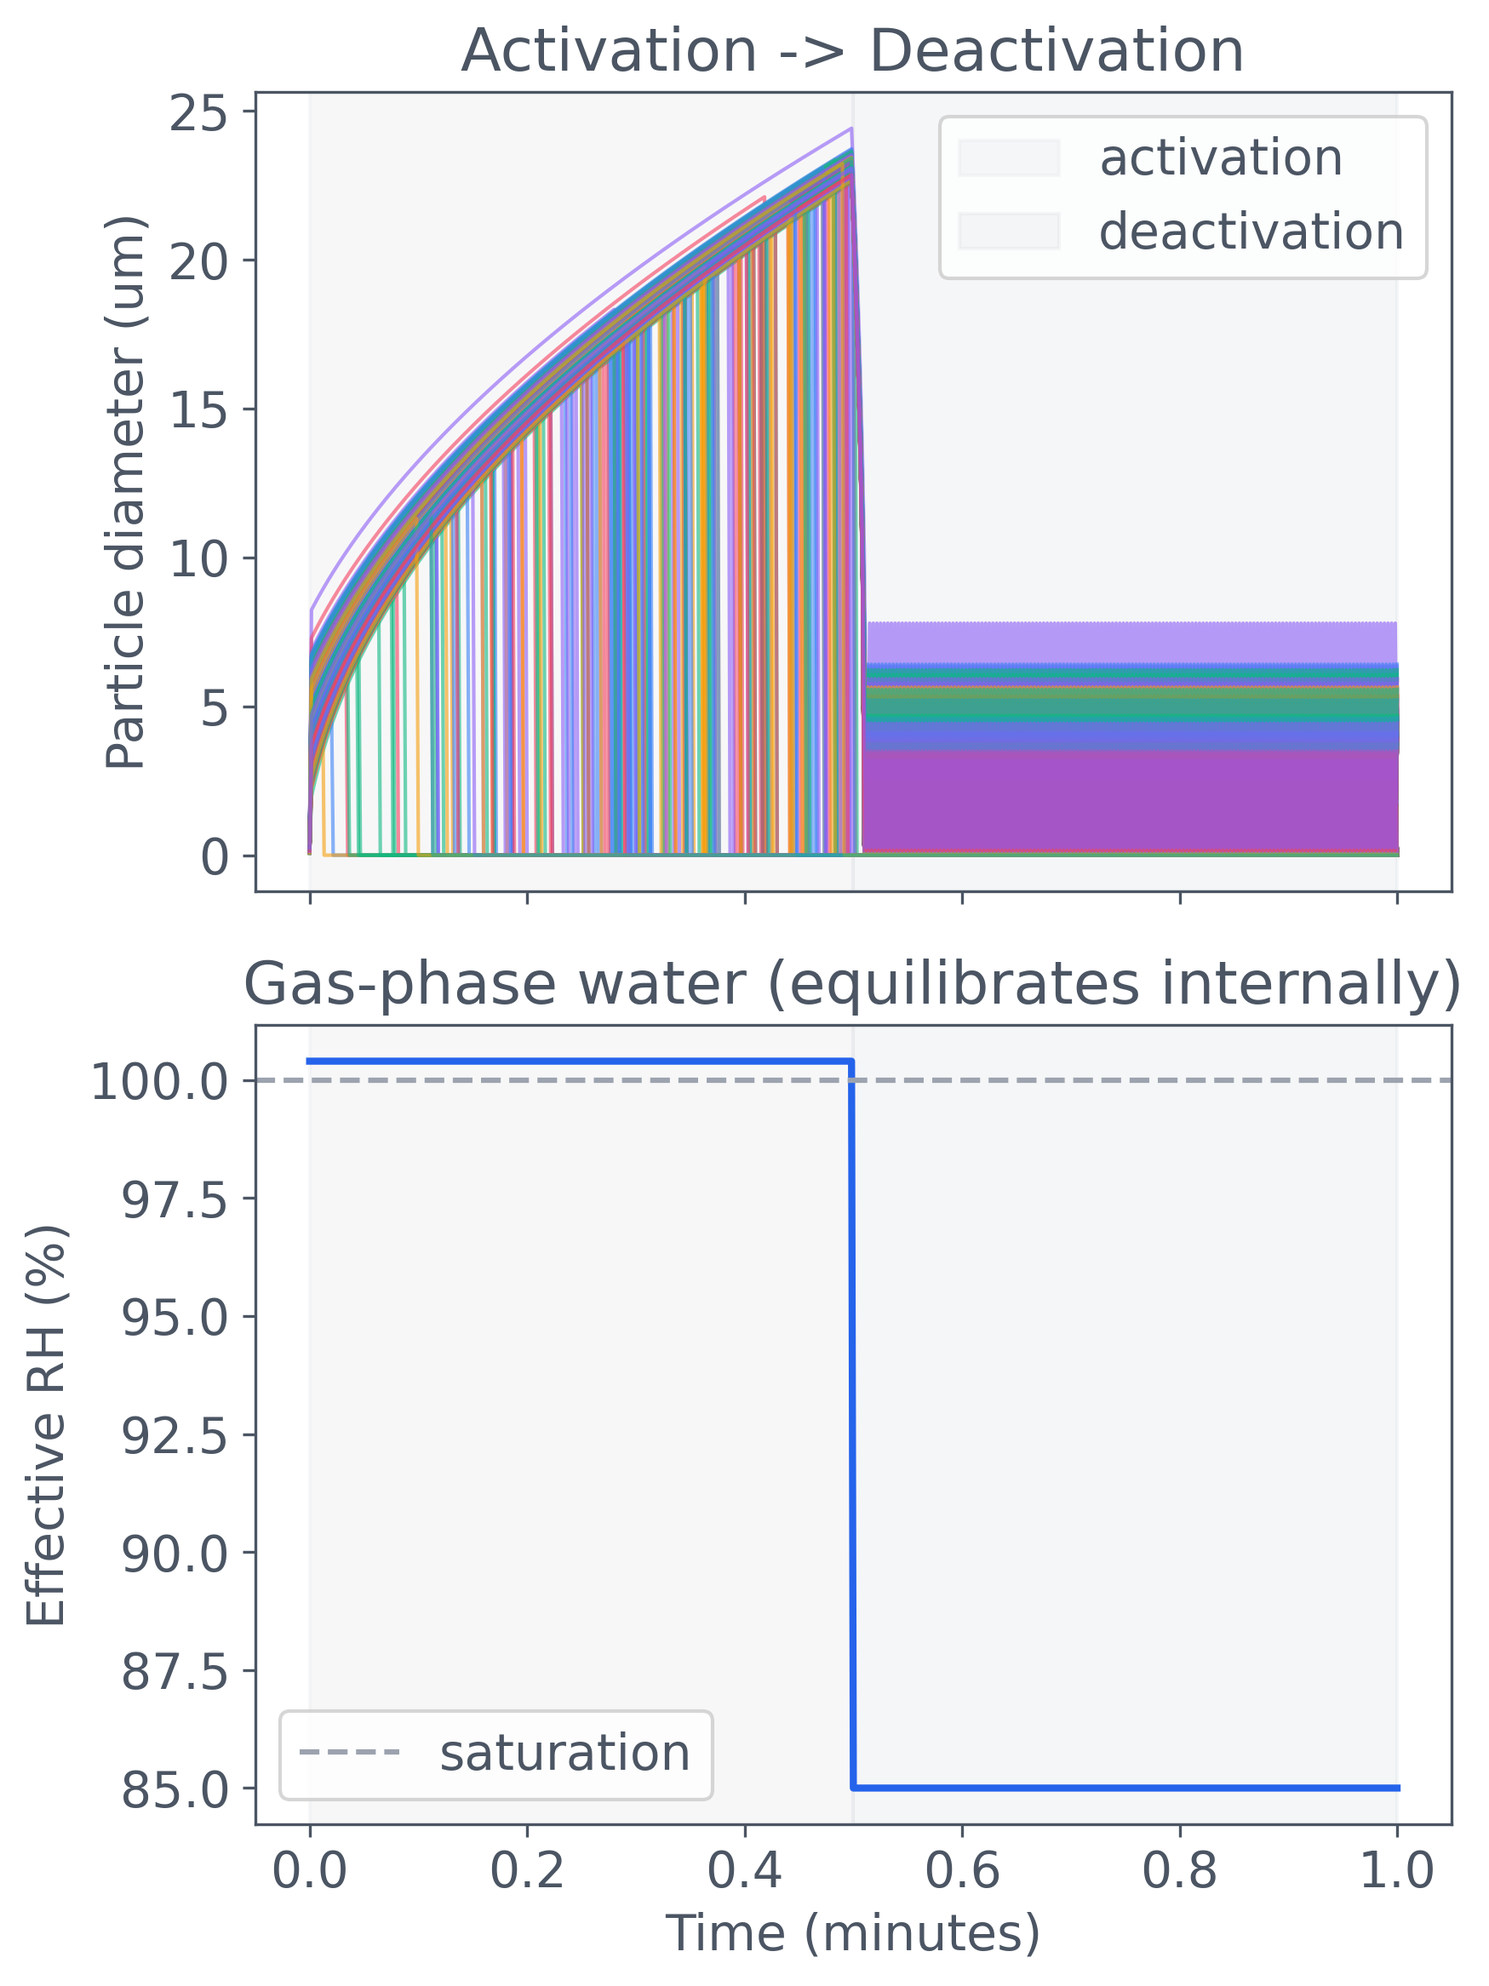
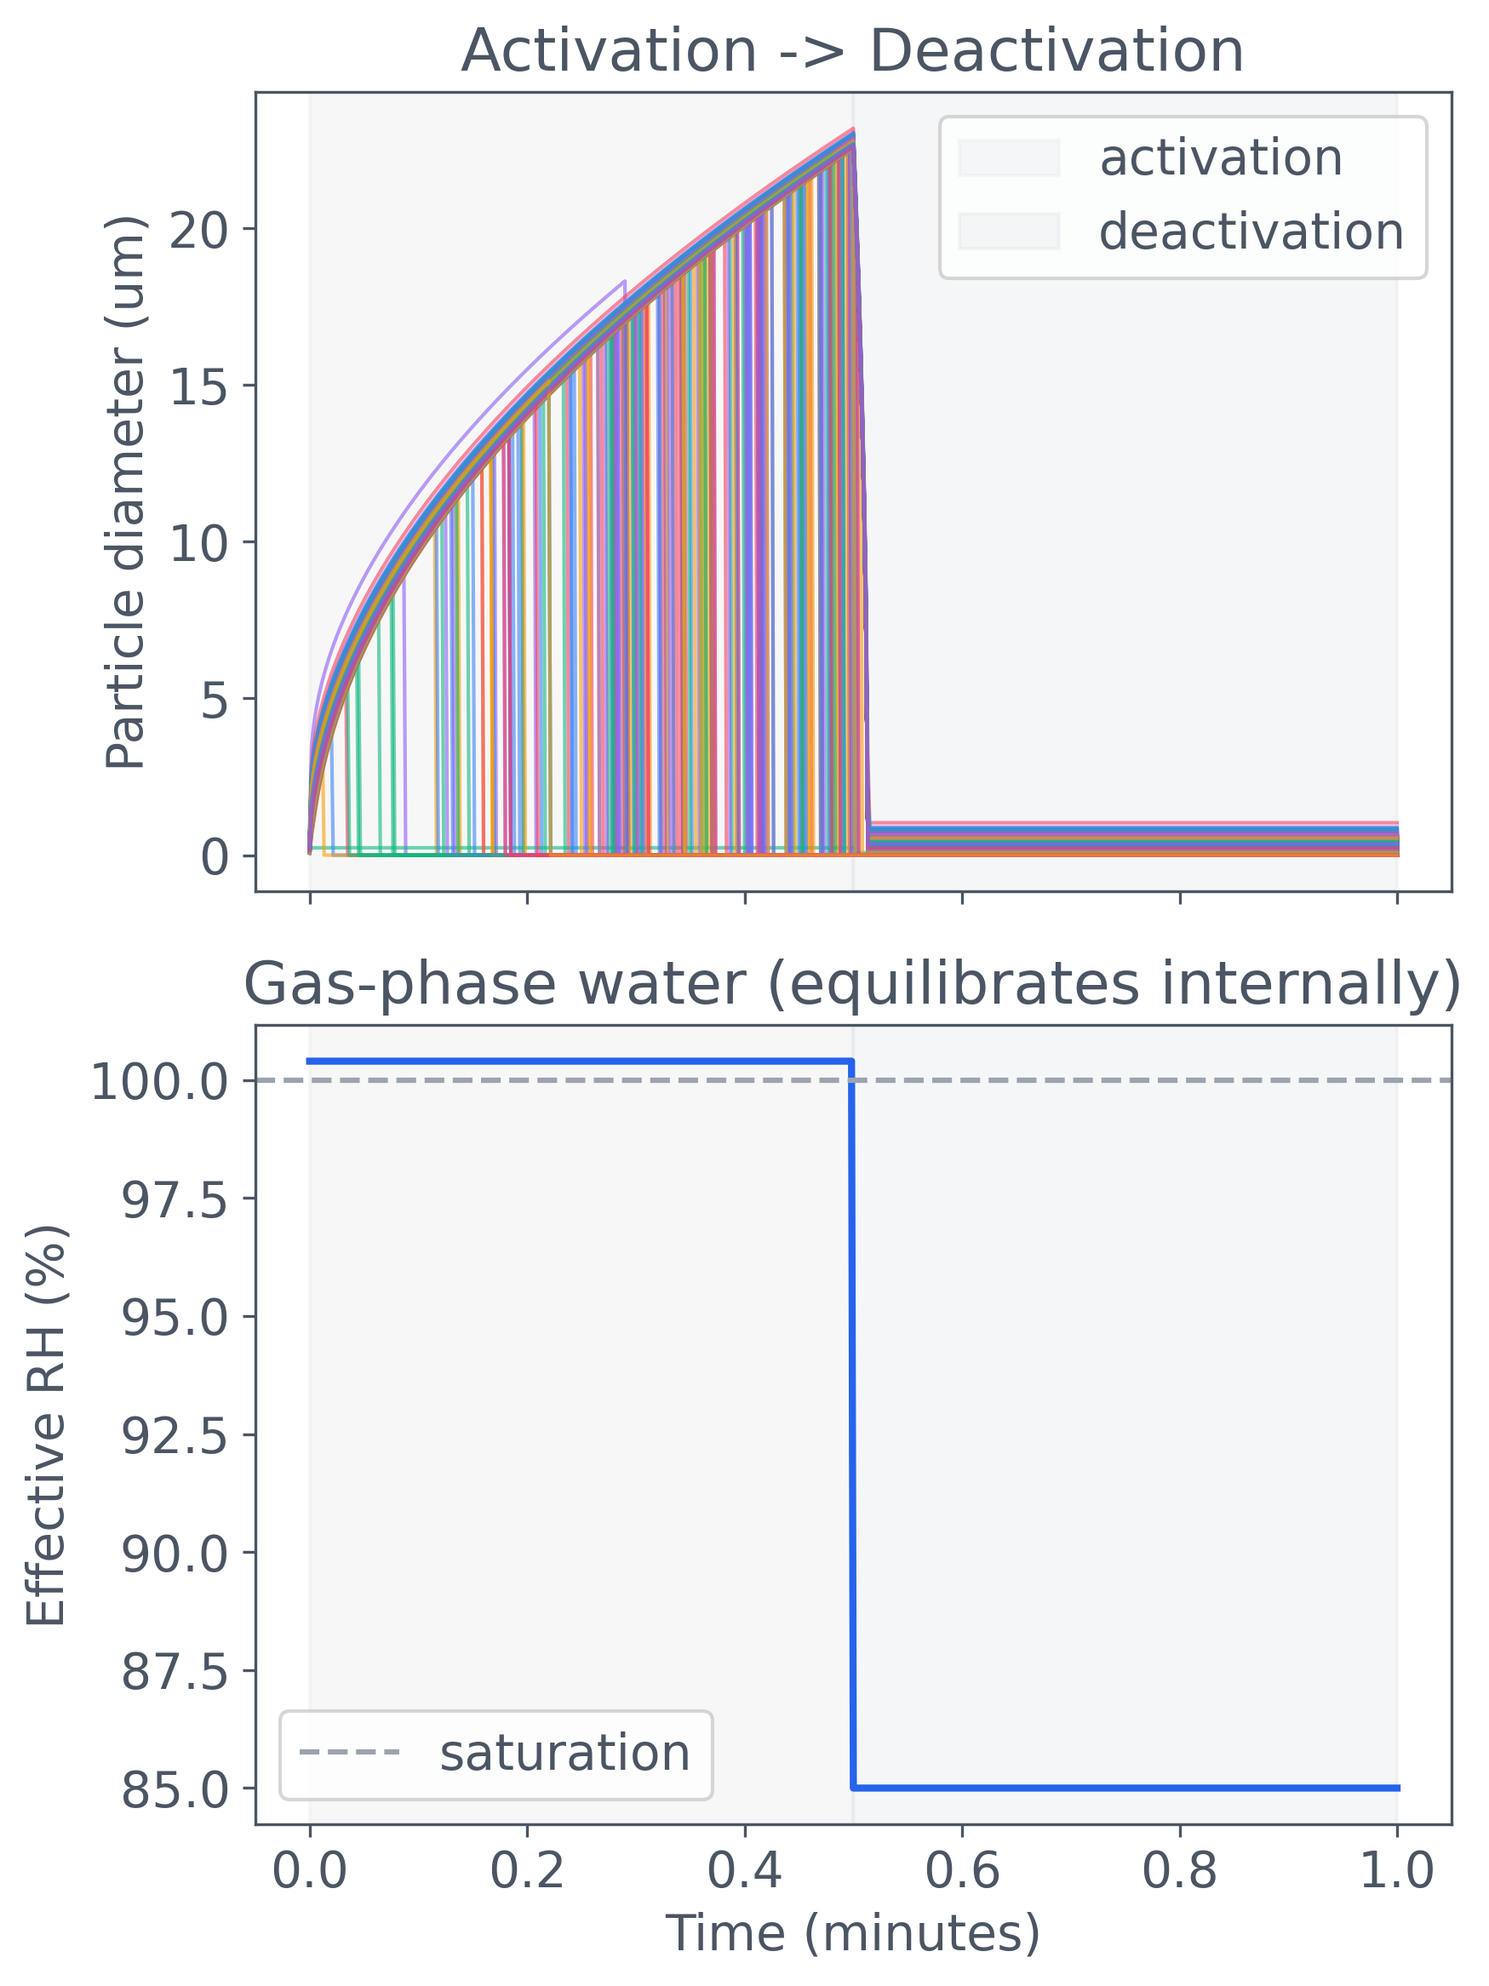
docs(examples): retain full corrected chamber result

diff --git a/website/results/examples-simulations-cloud-chamber-single-cycle/source.py b/website/results/examples-simulations-cloud-chamber-single-cycle/source.py
@@ -13,25 +13,33 @@
 # ---
 
 # %% [markdown]
-# # Cloud Chamber Activation-Deactivation Cycle (Single Run)
+# # Follow droplets through one wet–dry chamber cycle
 #
-# Welcome! This beginner-friendly notebook shows how to simulate one cloud activation-deactivation cycle in a rectangular cloud chamber using **Particula**. You will:
+# What changes when hygroscopic seeds encounter a supersaturated vapor reservoir
+# and then a drier one? This example couples condensation, evaporation, and
+# rectangular-chamber wall removal, following individual particle sizes and the
+# remaining gas-phase water. It provides a scaffold for reasoning about water
+# exchange and survival in a chamber.
 #
-# - Configure chamber geometry and wall-loss settings.
-# - Define hygroscopic seed composition with kappa-theory.
-# - Build a particle-resolved aerosol with speciated mass.
-# - Run one supersaturated activation (100.4% RH) and one deactivation (85% RH).
-# - Visualize droplet growth beyond 5 um and shrinkage during drying.
-# - Check each closed condensation inventory at rtol=1e-12 and atol=1e-30, separately from wall removal and humidity resets.
+# The two humidity settings initialize phases; they are not held fixed by a
+# continuous controller. Each condensation step conserves its mapped species,
+# whereas wall removal and the imposed humidity reset open that inventory.
+# Adaptive ROS3 resolves condensation inside each 0.1 s wall-loss/output
+# interval. Its local error control is distinct from convergence of the outer
+# stochastic wall-loss schedule and from a quantitative activation threshold.
 #
-# This fixed-step illustration is not a timestep-convergence or quantitative
-# activation study. Material conservation alone does not establish trajectory
-# accuracy; the retained dry-phase trajectories include step-scale oscillations.
-#
-# > Learning goals: understand Kohler/kappa activation basics, see how wall loss and condensation interact, and reuse this scaffold for multi-cycle studies.
+# Start with [condensation](../processes/condensation/condensation_1_bin.py) and
+# [rectangular wall loss](../processes/wall-loss/rectangular_wall_loss_strategy.py)
+# if either process is unfamiliar. This example adds their interaction, not a
+# validation against chamber measurements.
 
 # %% [markdown]
-# ## Imports, style, and reproducibility
+# ## Make the sampling choices reproducible
+#
+# Use NumPy for the sampled seed population and an explicit generator for wall
+# removal. Fixed seeds make this particular realization repeatable under the same
+# implementation. Estimating stochastic uncertainty would require an ensemble of
+# independent realizations, which is not run here.
 
 # %%
 import copy
@@ -42,6 +50,7 @@ import particula as par
 from particula.dynamics.condensation.species_mapping import (
     CondensationSpeciesMap,
 )
+from particula.execution.splitting import condensation_flow
 
 # Optional: uncomment if many steps and you want a progress bar
 # from tqdm import tqdm
@@ -68,8 +77,13 @@ np.random.seed(100)  # reproducibility for sampling and wall-loss RNG
 
 
 # %% [markdown]
-# ## 1. Chamber geometry and wall-loss setup
-# We model a rectangular cloud chamber. Wall loss is stochastic inside the strategy, so small run-to-run variability is expected even with a fixed seed (reproducibility mainly controls sampling order).
+# ## Define the geometry used by wall loss
+#
+# The wall-loss model uses a 2 m × 1 m × 1 m chamber and an eddy-loss parameter
+# of 0.001 s⁻¹. Particle removal is stochastic in the resolved representation.
+# Keep this geometry distinct from the represented aerosol sample volume set
+# below: one controls the loss coefficients, the other converts particle counts
+# and gas concentration into an extensive inventory.
 
 # %%
 # Geometry (meters)
@@ -89,8 +103,14 @@ wall_loss = par.dynamics.WallLoss(wall_loss_strategy=wall_loss_strategy)
 
 
 # %% [markdown]
-# ## 2. Seed species and kappa-activity parameters
-# We track three species in each particle: ammonium sulfate, sucrose, and water (water index = 2). kappa-theory approximates water activity from composition; higher kappa means more hygroscopic. Kohler theory couples curvature and solute effects; kappa-theory is a convenient approximation.
+# ## Put solute effects and water in aligned species lanes
+#
+# Each particle contains ammonium sulfate, sucrose, and water, in that order.
+# κ=[0.61, 0.10, 0] supplies an illustrative hygroscopicity model; densities
+# are kg/m³ and molar masses kg/mol. Water is lane 2, and its own κ is unused.
+# Solute activity and the later Kelvin surface correction both enter the
+# condensation calculation. These fixed values do not describe every
+# concentration or temperature dependence of the named materials.
 
 # %%
 kappa = np.array([0.61, 0.10, 0.0])
@@ -106,8 +126,18 @@ activity_params = (
 )
 
 # %% [markdown]
-# ## 3. Particle-resolved distribution, atmosphere, and initial aerosol
-# We create a particle-resolved speciated-mass representation using a lognormal sample distribution. Particles are sampled from a lognormal distribution with realistic CCN seed sizes. Water starts at zero; species ordering matches the kappa inputs.
+# ## Build a sampled dry population and its vapor reservoir
+#
+# Sample 1000 dry radii from a lognormal distribution with 100 nm mode radius
+# and geometric standard deviation 1.5. The dry material is 60% ammonium sulfate
+# and 40% sucrose **by volume**, converted to species masses using their densities.
+# Water starts at zero. The gas adds an unmapped air lane as well as the three
+# mapped particle species.
+#
+# The represented sample volume is 0.25 m³, distinct from the 2 m³ chamber
+# geometry above. Constant water-like surface tension is assumed. The inventory
+# helper combines weighted particle mass with gas concentration times sample
+# volume, in kg; this is the quantity compared around each condensation step.
 
 # %%
 # Sample particle radii from a lognormal distribution
@@ -183,11 +213,25 @@ def species_inventory(aero):
     ) + (aero.gas.concentration[:, :3] * aero.particles.volume[:, None])
 
 
-print(aerosol)
+print(
+    "Particle slots:", n_particles, "represented volume (m^3):", chamber_volume
+)
+print("Gas species:", ", ".join(gas.name))
 
 # %% [markdown]
-# ## 4. Condensation/evaporation strategy and RH setup
-# We construct a single isothermal condensation strategy for water with `update_gases=True`, which tracks gas-phase mass internally during the simulation. Instead of manually ramping RH each step, we simply set the water vapor concentration at the start of each phase (activation and deactivation) and let the system equilibrate naturally.
+# ## Set phase boundaries without imposing a continuous RH ramp
+#
+# The configured strategy supplies continuous particle/gas mass rates to ROS3;
+# its randomized staggered finite-step sweeps are not executed. Its explicit
+# species map excludes air. Each phase spans exactly 30 s. Condensation uses
+# adaptive accepted steps; wall removal and observation retain 0.1 s intervals.
+# The vapor reset occurs at t=30 s after the wet interval has finished.
+# Water vapor is initialized at 100.4% saturation and reset to 85% at the phase
+# boundary. Between resets it evolves through mass transfer.
+#
+# The conversion from vapor pressure to concentration uses the ideal-gas relation
+# at 298.15 K. Thus the lower plot's effective RH is a diagnostic of the changing
+# gas reservoir, not an independently prescribed trajectory.
 
 # %%
 # Full gas molar masses include air; the explicit map selects the three
@@ -209,6 +253,16 @@ condensation_strategy = par.dynamics.CondensationIsothermalStaggered(
 )
 condensation = par.dynamics.MassCondensation(
     condensation_strategy=condensation_strategy
+)
+growth_flow = condensation_flow(
+    "water_exchange",
+    condensation_strategy,
+    method="ros3",
+    rtol=1e-5,
+    particle_atol=1e-25,
+    gas_atol=1e-12,
+    first_step=1e-6,
+    max_step=0.1,
 )
 
 # Time grid
@@ -247,8 +301,19 @@ print(
 
 
 # %% [markdown]
-# ## 5. Run activation -> deactivation cycle
-# We preallocate histories for speed. The condensation strategy tracks gas-phase mass internally (`update_gases=True`), so we only need to set the water vapor concentration at the start of each phase and let the system equilibrate. No manual RH ramping is needed.
+# ## Track exchange and removal with different checks
+#
+# At every step, compare the mapped particle-plus-gas inventory immediately
+# before and after condensation at rtol=10⁻¹² and atol=10⁻³⁰ kg. Then apply
+# wall loss and check that it cannot add particle mass. Air must remain unchanged.
+# These local checks deliberately exclude the external water reset from a
+# closed-system conservation claim.
+#
+# Store particle masses, equivalent spherical diameters, and gas water for the
+# same times. Zero-mass removed particles have zero plotted diameter. The saved
+# realization reports its peak diameter and surviving slots below. These
+# outcomes belong to this setup and random seed, not general chamber performance
+# estimates. Particle tolerance is kg per particle; gas tolerance is kg/m³.
 
 # %%
 n_particles = aerosol.particles.masses[0].copy().shape[0]
@@ -301,18 +366,9 @@ gas_conc_hist[0] = aerosol_state.gas.concentration[0, 2]
 
 # Run simulation - condensation strategy tracks gas-phase mass internally
 for i in range(1, n_steps):
-    # Switch to deactivation concentration at phase boundary
-    if i == activation_steps:
-        aerosol_state = set_water_concentration(
-            aerosol_state, c_water_deactivation
-        )
-        print(
-            f"Phase transition at step {i} (t={t[i]:.1f}s): switching to deactivation RH"
-        )
-
     # Condensation handles mass transfer and updates gas concentration internally
     before_condensation = species_inventory(aerosol_state)
-    aerosol_state = condensation.execute(aerosol_state, time_step=dt)
+    aerosol_state = growth_flow.advance(aerosol_state, float(t[i - 1]), dt)
     np.testing.assert_allclose(
         species_inventory(aerosol_state),
         before_condensation,
@@ -325,6 +381,14 @@ for i in range(1, n_steps):
     np.testing.assert_allclose(
         aerosol_state.gas.concentration[0, 3], 1.2, rtol=0, atol=0
     )
+
+    # Finish the wet interval before applying the instantaneous reservoir reset.
+    # The row at the event shows its right-hand gas value and accepted particles.
+    if i == activation_steps:
+        aerosol_state = set_water_concentration(
+            aerosol_state, c_water_deactivation
+        )
+        print(f"Dry reservoir imposed at t={t[i]:.1f} s")
 
     mass_hist[i] = aerosol_state.particles.masses[0].copy()
     diam_hist[i] = masses_to_diameter(mass_hist[i])
@@ -341,8 +405,17 @@ print("Survivors:", survivors.sum(), "of", n_particles)
 
 
 # %% [markdown]
-# ## 6. Visualize size trajectories
-# Activation and deactivation phases are shaded; lines colored by Tailwind palette for clarity.
+# ## Read size histories beside the vapor history
+#
+# The upper panel shows sampled particle diameters and the lower panel shows
+# effective RH. Shading marks the wet and dry phases. Growth consumes gas water;
+# the imposed reset changes the reservoir, after which evaporation can return
+# water to the gas. Removal is a separate sink.
+#
+# Condensation now uses the stiff adaptive method rather than one fixed
+# condensation update per plotted interval. Check tolerance refinement before
+# interpreting small size reversals, and refine the outer wall-loss schedule
+# separately before inferring a converged activation criterion.
 
 # %%
 colors = [
@@ -400,8 +473,14 @@ plt.show()
 
 
 # %% [markdown]
-# ## 7. Internal checks and assertions
-# We ensure growth >5 um, deactivation shrinkage, finite values, survival sanity, and mass conservation (accounting for wall loss).
+# ## Separate an inventory check from a wet-to-dry mass ratio
+#
+# The final block checks finite masses and a bounded survivor count, and reports
+# peak diameter. It does not assert a 5 µm activation threshold or convergence.
+# The printed “mass remaining” divides final **wet** particle mass by initial
+# **dry** seed mass, so it can greatly exceed 100%. It is neither a wall-deposition
+# fraction nor a measure of mass-conservation error. Conservation of the mapped
+# species was checked separately around each condensation operation.
 
 # %%
 # Peak diameter check - particles should grow during activation
@@ -433,9 +512,19 @@ print("Simulation completed successfully.")
 
 
 # %% [markdown]
-# ## 8. Summary and next steps
-# - We ran one activation-deactivation cycle with kappa-based activity and rectangular wall loss.
-# - Droplets grew beyond 5 um and shrank on drying; mass drift stayed within ~1%.
-# - RNG seeding (np.random.seed(100)) controls sampling; wall-loss survival remains stochastic by design.
+# ## What this cycle supports—and what to investigate next
 #
-# Next steps for future phases: multi-cycle forcing, injections, dilution, and sensitivity to kappa or wall eddy diffusivity.
+# The calculation connects a humidity change to particle water exchange while
+# wall removal reduces the surviving population. The adaptive result resolves
+# smooth dry-phase relaxation. The independent
+# [wet–dry accuracy comparison](adaptive_cloud_relaxation.py) shows why mass
+# conservation alone cannot establish temporal accuracy, and compares ROS2 and
+# ROS3 work at the same tolerances.
+#
+# Before using this setup to interpret an experiment, reduce the timestep and
+# compare peak diameter, dry-phase size histories, and gas water. Then repeat
+# across random seeds to quantify survival uncertainty. Keep humidity additions
+# and removals in an explicit external-water budget. The
+# [multiple-cycle example](cloud_chamber_multi_cycle.py) extends the forcing and
+# composition comparisons, but still needs those numerical and experimental
+# checks for a quantitative chamber study.

diff --git a/plans/stage-02-cloud-droplet-examples.md b/plans/stage-02-cloud-droplet-examples.md
@@ -123,11 +123,12 @@ The numerical evidence record owns detailed commands, results and limitations.
 
 The full single-cycle repeat completed before those corrections. The live
 multi-cycle, respiratory and biomass runs were deliberately stopped because
-their numerical source was superseded. All four complete workloads are running in a detached validation checkout
+their numerical source was superseded. The complete workloads run in a detached validation checkout
 pinned to `12742e1c394c7a836d31aff3aeecbd8c0ff2b523`. The first CPU workflow and
 two CPU comparison examples have completed refresh, inspection and replot.
-Wait for the four complete workloads and verify their results before accepting
-the migration. Keep the library unchanged during each refresh; the publication
+The corrected full single-cycle chamber also completed and its figure was
+inspected. Finish and verify the multi-cycle, respiratory and biomass results
+before accepting the migration. Keep the library unchanged during each refresh; the publication
 hash guard rejects a changed runtime. Current process records are retained in
 `.artifacts/cloud-followthrough-runs.json`; verify live handles before resuming
 or replacing a run.

diff --git a/docs/contribute/validation/numerics/adaptive-methods.md b/docs/contribute/validation/numerics/adaptive-methods.md
@@ -394,7 +394,12 @@ refreshes from the clean revision, with package hash
 Their bundle hashes and matching source were verified before import, figures
 inspected, and saved data replotted. Corrected wet–dry ROS3 maximum radius
 errors are 4.07786e-6 and 3.39075e-8, still requiring 330/1,247 accepted steps.
-All four larger publication workloads remain running at this checkpoint.
+The corrected full single-cycle chamber subsequently completed in 304.95 s,
+retaining 1,000 particles over 60 s. Its inspected plot shows smooth dry
+relaxation, with peak diameter 23.19 µm, 788 survivors and 180.6% final
+wet/initial dry mass at printed precision. Its source and bundle hashes were
+verified before importing the clean-revision result. The multi-cycle,
+respiratory and biomass workloads remain running at this checkpoint.
 The current 558-page website build and rendered structure check both pass
 with zero structural errors.
 
